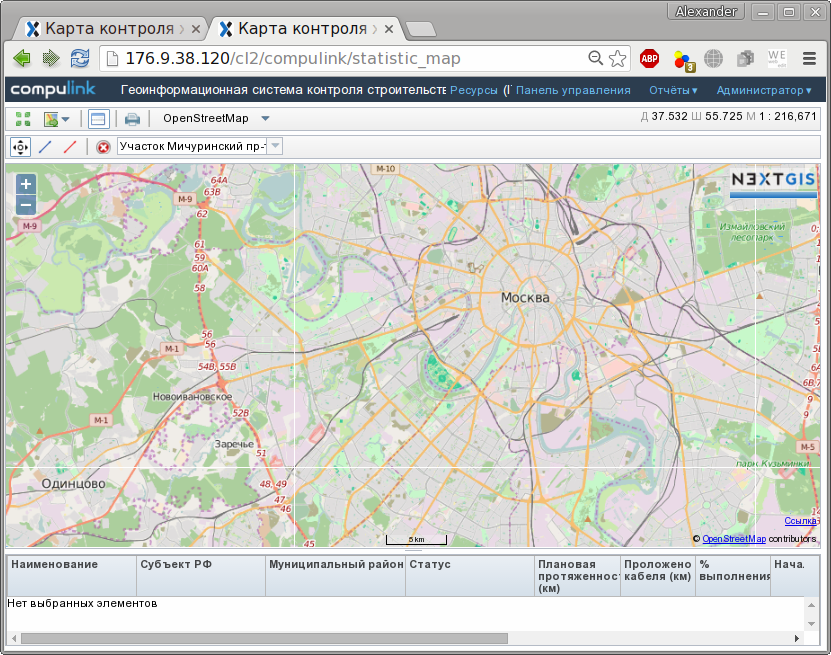
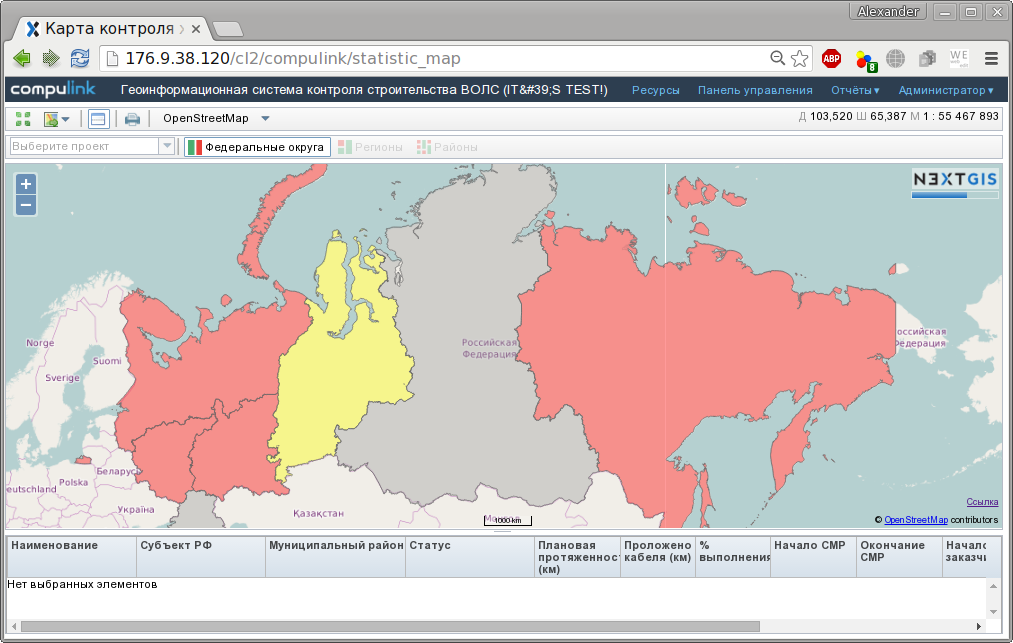
<docs_compulink_web> statistics edits

diff --git a/source/docs_compulink_web/source/conf.py b/source/docs_compulink_web/source/conf.py
@@ -262,6 +262,8 @@ latex_documents = [
    author, 'manual', 'true'),
 ]
 
+latex_additional_files = ['../iftex.sty']
+
 # The name of an image file (relative to this directory) to place at the top of
 # the title page.
 # latex_logo = '_static/ngwIcon.png'

diff --git a/source/docs_compulink_web/source/reports.rst b/source/docs_compulink_web/source/reports.rst
@@ -73,8 +73,42 @@
    :align: center
    :width: 15.8cm
 
-   Статистика по проекту
+   Статистика по проекту (основное окно)
 
+При запуске статистики появляется стандартная карта-подоснова OpenStreetMap с нанесенными границами федеральных округов РФ. Карту-подоснову можно выбрать из списка на панели инструментов в верхней части окна. Там же можно выбрать проект для вывода статистики.
+
+Вывод статистики построен иерархически по административному принципу: вначале необходимо выбрать федеральный округ, затем на появившейся карте регионов необходимо выбрать регион, и, наконец, интересующий район (:numref:`reports_stats2`). 
+
+.. figure:: _static/compulink/reports_stats2.png
+   :name: reports_stats2
+   :align: center
+   :width: 15.8cm
+
+   Статистика по проекту - выбор федерального округа, региона, района
+
+В примере (:numref:`reports_stats3`) показан тестовый участок строительства на территории г.Москва (Центральный федеральный округ). В нижней части окна карты можно видеть вывод статистики по объекту строительства: наименование, субъект РФ, статус строительства, начало/окончание работ и т.д. Кликом правой кнопкой мыши вызывается меню:
+
+* Показать объект на карте
+* Открыть карточку объекта
+
+.. figure:: _static/compulink/reports_stats3.png
+   :name: reports_stats3
+   :align: center
+   :width: 15.8cm
+
+   Статистика по проекту - тестовый пример
+		   
+При выборе пункта **Показать объект на карте** открывается отдельное окно с подробными характеристиками данного объекта (карта, условные обозначения и т.д.). При выборе пункта **Открыть карточку объекта** появляется окно *Изменение объектов строительства* с соответствующими графами, в которых можно не только просмотреть, но и при необходимости отредактировать информацию об объектах строительства (:numref:`reports_stats4`).
+
+.. figure:: _static/compulink/reports_stats4.png
+   :name: reports_stats4
+   :align: center
+   :width: 15.8cm
+
+   Статистика по проекту - карточка объекта
+|
+|
+|
 
 Отчет по отклонениям от проекта строительства
 ~~~~~~~~~~~~~~~~~~~~~~~~~~~~~~~~~~~~~~~~~~~~~
